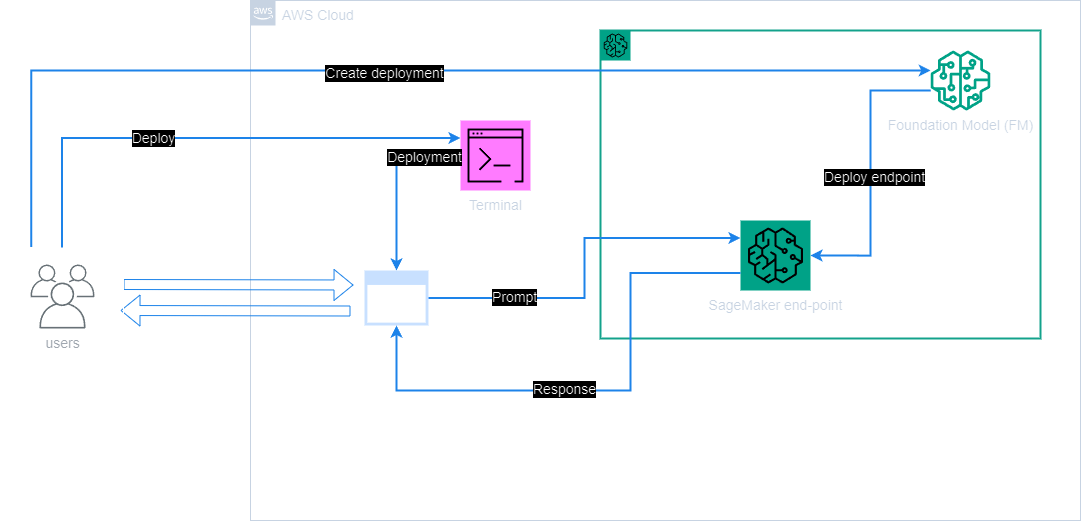
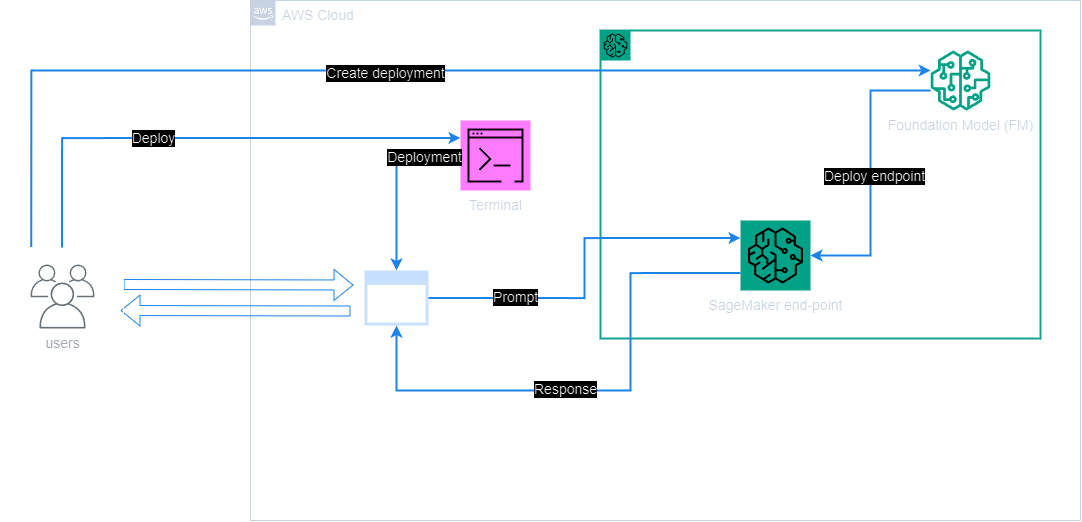
improved formatting

diff --git a/ML/GenerativeModel/README.md b/ML/GenerativeModel/README.md
@@ -11,16 +11,15 @@ The Q&A application with was then built with LangChain, through the integration 
 
 
 ## Schematic:<br><br>
-<img src="schematic.png" alt="schematic" width="700"/><br><br>
-*Figure 1 - Project schematic.*<br><br>
+<img src="schematic.png" alt="schematic" width="790" height="420"/><br><br>
+*Project schematic.*<br><br>
 
 ## Result
-<img src="dataset.png" width="590"/><br><br>
-*Figure 2 - Functionality illustration.*<br><br>
+<img src="dataset.png" width="890" height="490"/><br><br>
+*Custom dataset loading.*<br><br><br>
 
-<img src="demo.png" width="590"/><br><br>
-*Figure 3 - Functionality illustration.*<br><br>
-
+<img src="demo.png" width="890" height="490"/><br><br>
+*Functionality illustration.*<br><br>
 
 
 The result of the exercise was an implemented system that leverages the capabilities of LangChain, SageMaker, and embedding models to perform effective question answering using a custom dataset.

diff --git a/README.md b/README.md
@@ -11,4 +11,10 @@ Here, I detail my general approach to developing machine learning models, and un
     * [Imbalance Pricing Forecast Model](https://github.com/JeffM-Code/ImbalancePricingForecastModel)<br><br>
 * [Customer segmentation](https://github.com/JeffM-Code/PortfolioWork/tree/main/ML/CustomerSegmentation)<br><br>
     * [Segementation Clustering Model](https://github.com/JeffM-Code/SegementationClusteringModel)<br><br>
-* [Wind turbine power](https://github.com/JeffM-Code/PortfolioWork/tree/main/ML/WindTurbinePower)<br><br>
+* [Wind turbine power](https://github.com/JeffM-Code/PortfolioWork/tree/main/ML/WindTurbinePower)<br><br><br>
+
+### Other:
+* [RAG](https://github.com/JeffM-Code/PortfolioWork/tree/main/ML/GenerativeModel)<br><br><br>
+
+### Problem sets:
+* [Linear Algebra](https://colab.research.google.com/drive/1hA7DAK66ybnTuM1kfrBQknyX4M1PyHs_?usp=sharing)<br><br>
